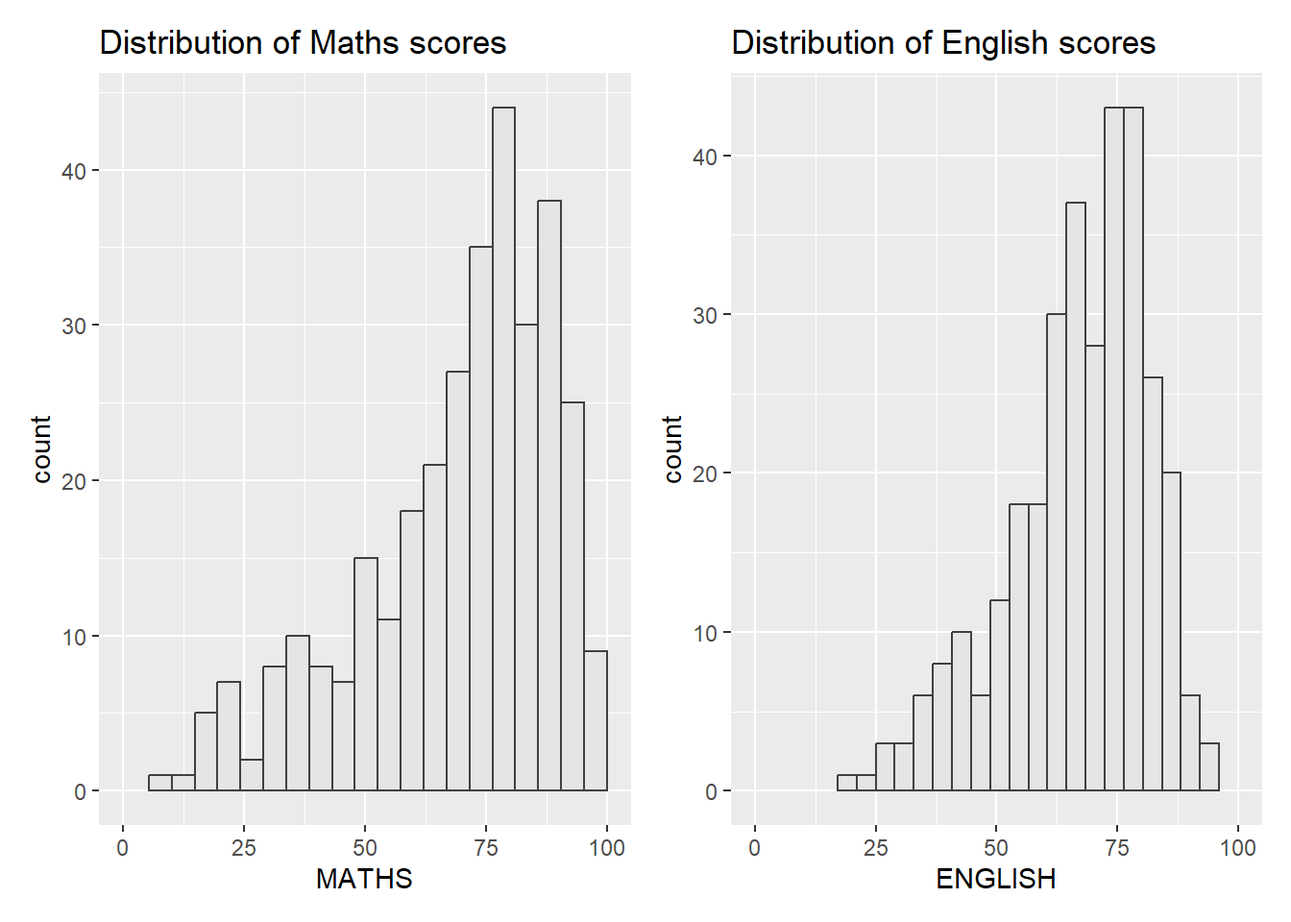
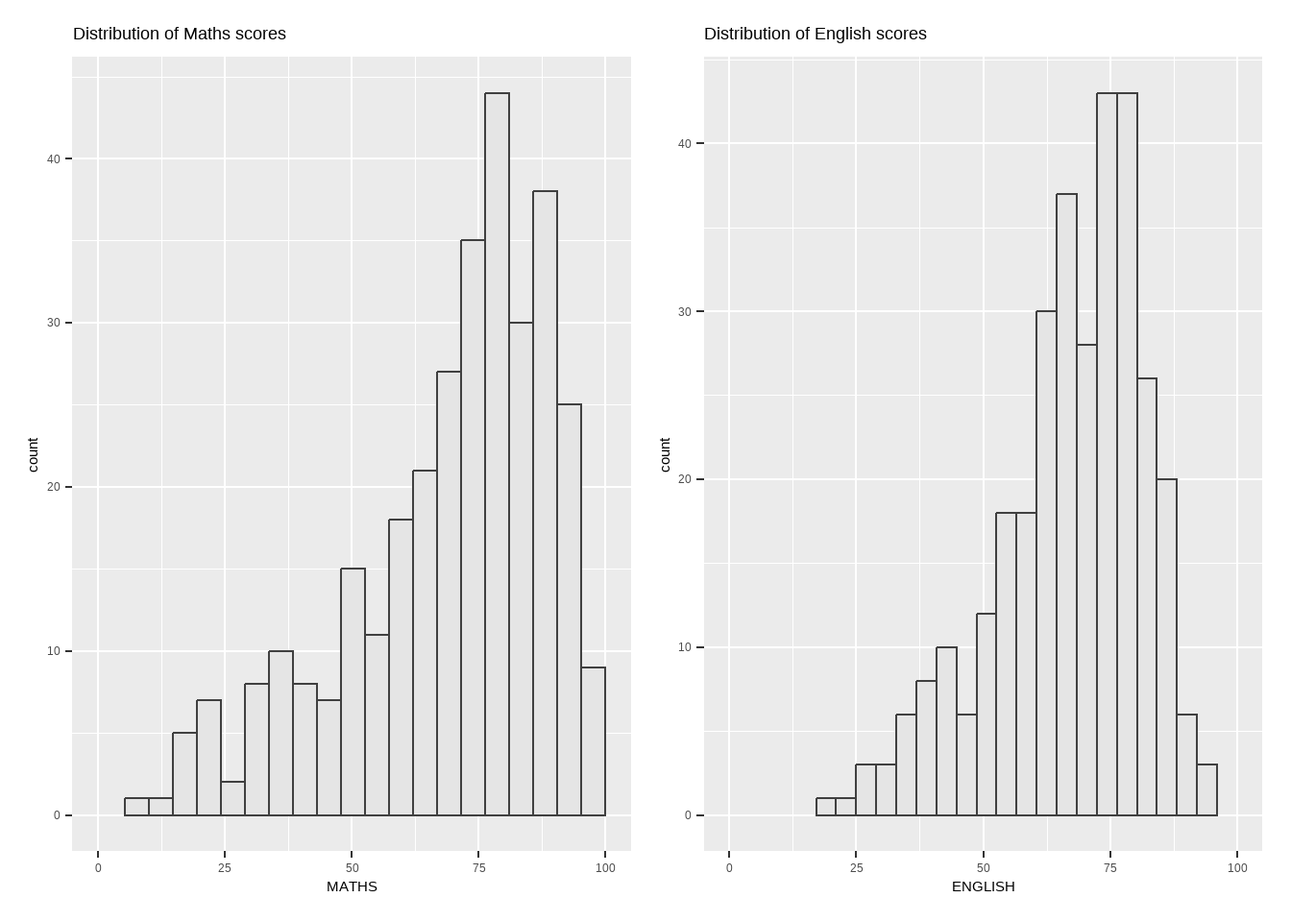
Additional Plots

diff --git a/_site/Hands-on_Ex/Hands-on_Ex02/Hands-on_Ex02.html b/_site/Hands-on_Ex/Hands-on_Ex02/Hands-on_Ex02.html
@@ -187,9 +187,16 @@ pre > code.sourceCode > span > a:first-child::before { text-decoration: underlin
   <li><a href="#economist-theme" id="toc-economist-theme" class="nav-link" data-scroll-target="#economist-theme">Economist Theme</a></li>
   <li><a href="#combining-ggplot2-graphs" id="toc-combining-ggplot2-graphs" class="nav-link" data-scroll-target="#combining-ggplot2-graphs">Combining ggplot2 graphs</a></li>
   <li><a href="#combining-2-plots-side-by-side" id="toc-combining-2-plots-side-by-side" class="nav-link" data-scroll-target="#combining-2-plots-side-by-side">Combining 2 Plots side by side</a></li>
-  <li><a href="#combining-3-graphs---using-to-stack-2-graphs-and-to-place-the-plots-beside-each-other" id="toc-combining-3-graphs---using-to-stack-2-graphs-and-to-place-the-plots-beside-each-other" class="nav-link" data-scroll-target="#combining-3-graphs---using-to-stack-2-graphs-and-to-place-the-plots-beside-each-other">Combining 3 graphs - Using “/” to stack 2 graphs and | to place the plots beside each other</a></li>
+  <li><a href="#combining-3-graphs---using-to-stack-2-graphs-and-to-place-the-plots-beside-each-other" id="toc-combining-3-graphs---using-to-stack-2-graphs-and-to-place-the-plots-beside-each-other" class="nav-link" data-scroll-target="#combining-3-graphs---using-to-stack-2-graphs-and-to-place-the-plots-beside-each-other">Combining 3 graphs - Using “/” to stack 2 graphs and “|” to place the plots beside each other</a></li>
   <li><a href="#placing-plots-next-to-each-other-based-on-the-provided-layout---using-inset_element" id="toc-placing-plots-next-to-each-other-based-on-the-provided-layout---using-inset_element" class="nav-link" data-scroll-target="#placing-plots-next-to-each-other-based-on-the-provided-layout---using-inset_element">Placing plots next to each other based on the provided layout - using inset_element</a></li>
   <li><a href="#using-patchwork-and-theme-together" id="toc-using-patchwork-and-theme-together" class="nav-link" data-scroll-target="#using-patchwork-and-theme-together">Using patchwork and theme together</a></li>
+  </ul></li>
+  <li><a href="#visual-analytics-methods-of-the-week" id="toc-visual-analytics-methods-of-the-week" class="nav-link" data-scroll-target="#visual-analytics-methods-of-the-week">Visual Analytics Methods of the Week</a>
+  <ul class="collapse">
+  <li><a href="#plotting-a-box-plot-of-the-english-scores-of-the-different-classes" id="toc-plotting-a-box-plot-of-the-english-scores-of-the-different-classes" class="nav-link" data-scroll-target="#plotting-a-box-plot-of-the-english-scores-of-the-different-classes">Plotting a Box Plot of the English scores of the different classes</a></li>
+  <li><a href="#plotting-a-violin-plot-of-science-scores-in-the-different-races" id="toc-plotting-a-violin-plot-of-science-scores-in-the-different-races" class="nav-link" data-scroll-target="#plotting-a-violin-plot-of-science-scores-in-the-different-races">Plotting a Violin Plot of science scores in the different Races</a></li>
+  <li><a href="#plotting-a-pie-chart-of-the-proportion-of-the-different-races" id="toc-plotting-a-pie-chart-of-the-proportion-of-the-different-races" class="nav-link" data-scroll-target="#plotting-a-pie-chart-of-the-proportion-of-the-different-races">Plotting a pie chart of the proportion of the different races</a></li>
+  <li><a href="#dot-plot-of-math-scores" id="toc-dot-plot-of-math-scores" class="nav-link" data-scroll-target="#dot-plot-of-math-scores">Dot Plot of Math Scores</a></li>
   </ul></li>
   </ul>
 </nav>
@@ -289,7 +296,7 @@ dbl (3): ENGLISH, MATHS, SCIENCE
 <pre><code>`geom_smooth()` using formula = 'y ~ x'</code></pre>
 </div>
 <div class="cell-output cell-output-stderr">
-<pre><code>Warning: ggrepel: 317 unlabeled data points (too many overlaps). Consider
+<pre><code>Warning: ggrepel: 301 unlabeled data points (too many overlaps). Consider
 increasing max.overlaps</code></pre>
 </div>
 <div class="cell-output-display">
@@ -351,33 +358,7 @@ increasing max.overlaps</code></pre>
 <span id="cb12-5"><a href="#cb12-5" aria-hidden="true" tabindex="-1"></a>                 <span class="at">color=</span><span class="st">"grey25"</span>, </span>
 <span id="cb12-6"><a href="#cb12-6" aria-hidden="true" tabindex="-1"></a>                 <span class="at">fill=</span><span class="st">"grey90"</span>) <span class="sc">+</span></span>
 <span id="cb12-7"><a href="#cb12-7" aria-hidden="true" tabindex="-1"></a>  <span class="fu">ggtitle</span>(<span class="st">"Distribution of Maths scores"</span>) <span class="sc">+</span></span>
-<span id="cb12-8"><a href="#cb12-8" aria-hidden="true" tabindex="-1"></a>  <span class="fu">theme_ipsum</span>()</span></code><button title="Copy to Clipboard" class="code-copy-button"><i class="bi"></i></button></pre></div>
-<div class="cell-output cell-output-stderr">
-<pre><code>Warning in grid.Call(C_stringMetric, as.graphicsAnnot(x$label)): font family
-not found in Windows font database
-Warning in grid.Call(C_stringMetric, as.graphicsAnnot(x$label)): font family
-not found in Windows font database
-Warning in grid.Call(C_stringMetric, as.graphicsAnnot(x$label)): font family
-not found in Windows font database</code></pre>
-</div>
-<div class="cell-output cell-output-stderr">
-<pre><code>Warning in grid.Call(C_textBounds, as.graphicsAnnot(x$label), x$x, x$y, : font
-family not found in Windows font database
-Warning in grid.Call(C_textBounds, as.graphicsAnnot(x$label), x$x, x$y, : font
-family not found in Windows font database
-Warning in grid.Call(C_textBounds, as.graphicsAnnot(x$label), x$x, x$y, : font
-family not found in Windows font database</code></pre>
-</div>
-<div class="cell-output cell-output-stderr">
-<pre><code>Warning in grid.Call.graphics(C_text, as.graphicsAnnot(x$label), x$x, x$y, :
-font family not found in Windows font database
-Warning in grid.Call.graphics(C_text, as.graphicsAnnot(x$label), x$x, x$y, :
-font family not found in Windows font database
-Warning in grid.Call.graphics(C_text, as.graphicsAnnot(x$label), x$x, x$y, :
-font family not found in Windows font database
-Warning in grid.Call.graphics(C_text, as.graphicsAnnot(x$label), x$x, x$y, :
-font family not found in Windows font database</code></pre>
-</div>
+<span id="cb12-8"><a href="#cb12-8" aria-hidden="true" tabindex="-1"></a>  <span class="fu">theme_ipsum</span>(<span class="at">base_family =</span> <span class="st">"sans"</span>)</span></code><button title="Copy to Clipboard" class="code-copy-button"><i class="bi"></i></button></pre></div>
 <div class="cell-output-display">
 <div>
 <figure class="figure">
@@ -390,38 +371,17 @@ font family not found in Windows font database</code></pre>
 <section id="combining-ggplot2-graphs" class="level2">
 <h2 class="anchored" data-anchor-id="combining-ggplot2-graphs">Combining ggplot2 graphs</h2>
 <div class="cell">
-<div class="sourceCode cell-code" id="cb16"><pre class="sourceCode r code-with-copy"><code class="sourceCode r"><span id="cb16-1"><a href="#cb16-1" aria-hidden="true" tabindex="-1"></a><span class="fu">ggplot</span>(<span class="at">data=</span>exam_data, </span>
-<span id="cb16-2"><a href="#cb16-2" aria-hidden="true" tabindex="-1"></a>             <span class="fu">aes</span>(<span class="at">x =</span> MATHS)) <span class="sc">+</span></span>
-<span id="cb16-3"><a href="#cb16-3" aria-hidden="true" tabindex="-1"></a>  <span class="fu">geom_histogram</span>(<span class="at">bins=</span><span class="dv">20</span>, </span>
-<span id="cb16-4"><a href="#cb16-4" aria-hidden="true" tabindex="-1"></a>                 <span class="at">boundary =</span> <span class="dv">100</span>,</span>
-<span id="cb16-5"><a href="#cb16-5" aria-hidden="true" tabindex="-1"></a>                 <span class="at">color=</span><span class="st">"grey25"</span>, </span>
-<span id="cb16-6"><a href="#cb16-6" aria-hidden="true" tabindex="-1"></a>                 <span class="at">fill=</span><span class="st">"grey90"</span>) <span class="sc">+</span></span>
-<span id="cb16-7"><a href="#cb16-7" aria-hidden="true" tabindex="-1"></a>  <span class="fu">ggtitle</span>(<span class="st">"Distribution of Maths scores"</span>) <span class="sc">+</span></span>
-<span id="cb16-8"><a href="#cb16-8" aria-hidden="true" tabindex="-1"></a>  <span class="fu">theme_ipsum</span>(<span class="at">axis_title_size =</span> <span class="dv">18</span>,</span>
-<span id="cb16-9"><a href="#cb16-9" aria-hidden="true" tabindex="-1"></a>              <span class="at">base_size =</span> <span class="dv">15</span>,</span>
-<span id="cb16-10"><a href="#cb16-10" aria-hidden="true" tabindex="-1"></a>              <span class="at">grid =</span> <span class="st">"Y"</span>)</span></code><button title="Copy to Clipboard" class="code-copy-button"><i class="bi"></i></button></pre></div>
-<div class="cell-output cell-output-stderr">
-<pre><code>Warning in grid.Call(C_stringMetric, as.graphicsAnnot(x$label)): font family
-not found in Windows font database</code></pre>
-</div>
-<div class="cell-output cell-output-stderr">
-<pre><code>Warning in grid.Call(C_textBounds, as.graphicsAnnot(x$label), x$x, x$y, : font
-family not found in Windows font database
-Warning in grid.Call(C_textBounds, as.graphicsAnnot(x$label), x$x, x$y, : font
-family not found in Windows font database
-Warning in grid.Call(C_textBounds, as.graphicsAnnot(x$label), x$x, x$y, : font
-family not found in Windows font database</code></pre>
-</div>
-<div class="cell-output cell-output-stderr">
-<pre><code>Warning in grid.Call.graphics(C_text, as.graphicsAnnot(x$label), x$x, x$y, :
-font family not found in Windows font database
-Warning in grid.Call.graphics(C_text, as.graphicsAnnot(x$label), x$x, x$y, :
-font family not found in Windows font database
-Warning in grid.Call.graphics(C_text, as.graphicsAnnot(x$label), x$x, x$y, :
-font family not found in Windows font database
-Warning in grid.Call.graphics(C_text, as.graphicsAnnot(x$label), x$x, x$y, :
-font family not found in Windows font database</code></pre>
-</div>
+<div class="sourceCode cell-code" id="cb13"><pre class="sourceCode r code-with-copy"><code class="sourceCode r"><span id="cb13-1"><a href="#cb13-1" aria-hidden="true" tabindex="-1"></a><span class="fu">ggplot</span>(<span class="at">data=</span>exam_data, </span>
+<span id="cb13-2"><a href="#cb13-2" aria-hidden="true" tabindex="-1"></a>             <span class="fu">aes</span>(<span class="at">x =</span> MATHS)) <span class="sc">+</span></span>
+<span id="cb13-3"><a href="#cb13-3" aria-hidden="true" tabindex="-1"></a>  <span class="fu">geom_histogram</span>(<span class="at">bins=</span><span class="dv">20</span>, </span>
+<span id="cb13-4"><a href="#cb13-4" aria-hidden="true" tabindex="-1"></a>                 <span class="at">boundary =</span> <span class="dv">100</span>,</span>
+<span id="cb13-5"><a href="#cb13-5" aria-hidden="true" tabindex="-1"></a>                 <span class="at">color=</span><span class="st">"grey25"</span>, </span>
+<span id="cb13-6"><a href="#cb13-6" aria-hidden="true" tabindex="-1"></a>                 <span class="at">fill=</span><span class="st">"grey90"</span>) <span class="sc">+</span></span>
+<span id="cb13-7"><a href="#cb13-7" aria-hidden="true" tabindex="-1"></a>  <span class="fu">ggtitle</span>(<span class="st">"Distribution of Maths scores"</span>) <span class="sc">+</span></span>
+<span id="cb13-8"><a href="#cb13-8" aria-hidden="true" tabindex="-1"></a>  <span class="fu">theme_ipsum</span>(<span class="at">axis_title_size =</span> <span class="dv">18</span>,</span>
+<span id="cb13-9"><a href="#cb13-9" aria-hidden="true" tabindex="-1"></a>              <span class="at">base_size =</span> <span class="dv">15</span>,</span>
+<span id="cb13-10"><a href="#cb13-10" aria-hidden="true" tabindex="-1"></a>              <span class="at">grid =</span> <span class="st">"Y"</span>,</span>
+<span id="cb13-11"><a href="#cb13-11" aria-hidden="true" tabindex="-1"></a>              <span class="at">base_family =</span> <span class="st">"sans"</span>)</span></code><button title="Copy to Clipboard" class="code-copy-button"><i class="bi"></i></button></pre></div>
 <div class="cell-output-display">
 <div>
 <figure class="figure">
@@ -431,41 +391,41 @@ font family not found in Windows font database</code></pre>
 </div>
 </div>
 <div class="cell">
-<div class="sourceCode cell-code" id="cb20"><pre class="sourceCode r code-with-copy"><code class="sourceCode r"><span id="cb20-1"><a href="#cb20-1" aria-hidden="true" tabindex="-1"></a>p1 <span class="ot">&lt;-</span> <span class="fu">ggplot</span>(<span class="at">data=</span>exam_data, </span>
-<span id="cb20-2"><a href="#cb20-2" aria-hidden="true" tabindex="-1"></a>             <span class="fu">aes</span>(<span class="at">x =</span> MATHS)) <span class="sc">+</span></span>
-<span id="cb20-3"><a href="#cb20-3" aria-hidden="true" tabindex="-1"></a>  <span class="fu">geom_histogram</span>(<span class="at">bins=</span><span class="dv">20</span>, </span>
-<span id="cb20-4"><a href="#cb20-4" aria-hidden="true" tabindex="-1"></a>                 <span class="at">boundary =</span> <span class="dv">100</span>,</span>
-<span id="cb20-5"><a href="#cb20-5" aria-hidden="true" tabindex="-1"></a>                 <span class="at">color=</span><span class="st">"grey25"</span>, </span>
-<span id="cb20-6"><a href="#cb20-6" aria-hidden="true" tabindex="-1"></a>                 <span class="at">fill=</span><span class="st">"grey90"</span>) <span class="sc">+</span> </span>
-<span id="cb20-7"><a href="#cb20-7" aria-hidden="true" tabindex="-1"></a>  <span class="fu">coord_cartesian</span>(<span class="at">xlim=</span><span class="fu">c</span>(<span class="dv">0</span>,<span class="dv">100</span>)) <span class="sc">+</span></span>
-<span id="cb20-8"><a href="#cb20-8" aria-hidden="true" tabindex="-1"></a>  <span class="fu">ggtitle</span>(<span class="st">"Distribution of Maths scores"</span>)</span></code><button title="Copy to Clipboard" class="code-copy-button"><i class="bi"></i></button></pre></div>
+<div class="sourceCode cell-code" id="cb14"><pre class="sourceCode r code-with-copy"><code class="sourceCode r"><span id="cb14-1"><a href="#cb14-1" aria-hidden="true" tabindex="-1"></a>p1 <span class="ot">&lt;-</span> <span class="fu">ggplot</span>(<span class="at">data=</span>exam_data, </span>
+<span id="cb14-2"><a href="#cb14-2" aria-hidden="true" tabindex="-1"></a>             <span class="fu">aes</span>(<span class="at">x =</span> MATHS)) <span class="sc">+</span></span>
+<span id="cb14-3"><a href="#cb14-3" aria-hidden="true" tabindex="-1"></a>  <span class="fu">geom_histogram</span>(<span class="at">bins=</span><span class="dv">20</span>, </span>
+<span id="cb14-4"><a href="#cb14-4" aria-hidden="true" tabindex="-1"></a>                 <span class="at">boundary =</span> <span class="dv">100</span>,</span>
+<span id="cb14-5"><a href="#cb14-5" aria-hidden="true" tabindex="-1"></a>                 <span class="at">color=</span><span class="st">"grey25"</span>, </span>
+<span id="cb14-6"><a href="#cb14-6" aria-hidden="true" tabindex="-1"></a>                 <span class="at">fill=</span><span class="st">"grey90"</span>) <span class="sc">+</span> </span>
+<span id="cb14-7"><a href="#cb14-7" aria-hidden="true" tabindex="-1"></a>  <span class="fu">coord_cartesian</span>(<span class="at">xlim=</span><span class="fu">c</span>(<span class="dv">0</span>,<span class="dv">100</span>)) <span class="sc">+</span></span>
+<span id="cb14-8"><a href="#cb14-8" aria-hidden="true" tabindex="-1"></a>  <span class="fu">ggtitle</span>(<span class="st">"Distribution of Maths scores"</span>)</span></code><button title="Copy to Clipboard" class="code-copy-button"><i class="bi"></i></button></pre></div>
 </div>
 <div class="cell">
-<div class="sourceCode cell-code" id="cb21"><pre class="sourceCode r code-with-copy"><code class="sourceCode r"><span id="cb21-1"><a href="#cb21-1" aria-hidden="true" tabindex="-1"></a>p2 <span class="ot">&lt;-</span> <span class="fu">ggplot</span>(<span class="at">data=</span>exam_data, </span>
-<span id="cb21-2"><a href="#cb21-2" aria-hidden="true" tabindex="-1"></a>             <span class="fu">aes</span>(<span class="at">x =</span> ENGLISH)) <span class="sc">+</span></span>
-<span id="cb21-3"><a href="#cb21-3" aria-hidden="true" tabindex="-1"></a>  <span class="fu">geom_histogram</span>(<span class="at">bins=</span><span class="dv">20</span>, </span>
-<span id="cb21-4"><a href="#cb21-4" aria-hidden="true" tabindex="-1"></a>                 <span class="at">boundary =</span> <span class="dv">100</span>,</span>
-<span id="cb21-5"><a href="#cb21-5" aria-hidden="true" tabindex="-1"></a>                 <span class="at">color=</span><span class="st">"grey25"</span>, </span>
-<span id="cb21-6"><a href="#cb21-6" aria-hidden="true" tabindex="-1"></a>                 <span class="at">fill=</span><span class="st">"grey90"</span>) <span class="sc">+</span></span>
-<span id="cb21-7"><a href="#cb21-7" aria-hidden="true" tabindex="-1"></a>  <span class="fu">coord_cartesian</span>(<span class="at">xlim=</span><span class="fu">c</span>(<span class="dv">0</span>,<span class="dv">100</span>)) <span class="sc">+</span></span>
-<span id="cb21-8"><a href="#cb21-8" aria-hidden="true" tabindex="-1"></a>  <span class="fu">ggtitle</span>(<span class="st">"Distribution of English scores"</span>)</span></code><button title="Copy to Clipboard" class="code-copy-button"><i class="bi"></i></button></pre></div>
+<div class="sourceCode cell-code" id="cb15"><pre class="sourceCode r code-with-copy"><code class="sourceCode r"><span id="cb15-1"><a href="#cb15-1" aria-hidden="true" tabindex="-1"></a>p2 <span class="ot">&lt;-</span> <span class="fu">ggplot</span>(<span class="at">data=</span>exam_data, </span>
+<span id="cb15-2"><a href="#cb15-2" aria-hidden="true" tabindex="-1"></a>             <span class="fu">aes</span>(<span class="at">x =</span> ENGLISH)) <span class="sc">+</span></span>
+<span id="cb15-3"><a href="#cb15-3" aria-hidden="true" tabindex="-1"></a>  <span class="fu">geom_histogram</span>(<span class="at">bins=</span><span class="dv">20</span>, </span>
+<span id="cb15-4"><a href="#cb15-4" aria-hidden="true" tabindex="-1"></a>                 <span class="at">boundary =</span> <span class="dv">100</span>,</span>
+<span id="cb15-5"><a href="#cb15-5" aria-hidden="true" tabindex="-1"></a>                 <span class="at">color=</span><span class="st">"grey25"</span>, </span>
+<span id="cb15-6"><a href="#cb15-6" aria-hidden="true" tabindex="-1"></a>                 <span class="at">fill=</span><span class="st">"grey90"</span>) <span class="sc">+</span></span>
+<span id="cb15-7"><a href="#cb15-7" aria-hidden="true" tabindex="-1"></a>  <span class="fu">coord_cartesian</span>(<span class="at">xlim=</span><span class="fu">c</span>(<span class="dv">0</span>,<span class="dv">100</span>)) <span class="sc">+</span></span>
+<span id="cb15-8"><a href="#cb15-8" aria-hidden="true" tabindex="-1"></a>  <span class="fu">ggtitle</span>(<span class="st">"Distribution of English scores"</span>)</span></code><button title="Copy to Clipboard" class="code-copy-button"><i class="bi"></i></button></pre></div>
 </div>
 <div class="cell">
-<div class="sourceCode cell-code" id="cb22"><pre class="sourceCode r code-with-copy"><code class="sourceCode r"><span id="cb22-1"><a href="#cb22-1" aria-hidden="true" tabindex="-1"></a>p3 <span class="ot">&lt;-</span> <span class="fu">ggplot</span>(<span class="at">data=</span>exam_data, </span>
-<span id="cb22-2"><a href="#cb22-2" aria-hidden="true" tabindex="-1"></a>             <span class="fu">aes</span>(<span class="at">x=</span> MATHS, </span>
-<span id="cb22-3"><a href="#cb22-3" aria-hidden="true" tabindex="-1"></a>                 <span class="at">y=</span>ENGLISH)) <span class="sc">+</span></span>
-<span id="cb22-4"><a href="#cb22-4" aria-hidden="true" tabindex="-1"></a>  <span class="fu">geom_point</span>() <span class="sc">+</span></span>
-<span id="cb22-5"><a href="#cb22-5" aria-hidden="true" tabindex="-1"></a>  <span class="fu">geom_smooth</span>(<span class="at">method=</span>lm, </span>
-<span id="cb22-6"><a href="#cb22-6" aria-hidden="true" tabindex="-1"></a>              <span class="at">size=</span><span class="fl">0.5</span>) <span class="sc">+</span>  </span>
-<span id="cb22-7"><a href="#cb22-7" aria-hidden="true" tabindex="-1"></a>  <span class="fu">coord_cartesian</span>(<span class="at">xlim=</span><span class="fu">c</span>(<span class="dv">0</span>,<span class="dv">100</span>),</span>
-<span id="cb22-8"><a href="#cb22-8" aria-hidden="true" tabindex="-1"></a>                  <span class="at">ylim=</span><span class="fu">c</span>(<span class="dv">0</span>,<span class="dv">100</span>)) <span class="sc">+</span></span>
-<span id="cb22-9"><a href="#cb22-9" aria-hidden="true" tabindex="-1"></a>  <span class="fu">ggtitle</span>(<span class="st">"English scores versus Maths scores for Primary 3"</span>)</span></code><button title="Copy to Clipboard" class="code-copy-button"><i class="bi"></i></button></pre></div>
+<div class="sourceCode cell-code" id="cb16"><pre class="sourceCode r code-with-copy"><code class="sourceCode r"><span id="cb16-1"><a href="#cb16-1" aria-hidden="true" tabindex="-1"></a>p3 <span class="ot">&lt;-</span> <span class="fu">ggplot</span>(<span class="at">data=</span>exam_data, </span>
+<span id="cb16-2"><a href="#cb16-2" aria-hidden="true" tabindex="-1"></a>             <span class="fu">aes</span>(<span class="at">x=</span> MATHS, </span>
+<span id="cb16-3"><a href="#cb16-3" aria-hidden="true" tabindex="-1"></a>                 <span class="at">y=</span>ENGLISH)) <span class="sc">+</span></span>
+<span id="cb16-4"><a href="#cb16-4" aria-hidden="true" tabindex="-1"></a>  <span class="fu">geom_point</span>() <span class="sc">+</span></span>
+<span id="cb16-5"><a href="#cb16-5" aria-hidden="true" tabindex="-1"></a>  <span class="fu">geom_smooth</span>(<span class="at">method=</span>lm, </span>
+<span id="cb16-6"><a href="#cb16-6" aria-hidden="true" tabindex="-1"></a>              <span class="at">size=</span><span class="fl">0.5</span>) <span class="sc">+</span>  </span>
+<span id="cb16-7"><a href="#cb16-7" aria-hidden="true" tabindex="-1"></a>  <span class="fu">coord_cartesian</span>(<span class="at">xlim=</span><span class="fu">c</span>(<span class="dv">0</span>,<span class="dv">100</span>),</span>
+<span id="cb16-8"><a href="#cb16-8" aria-hidden="true" tabindex="-1"></a>                  <span class="at">ylim=</span><span class="fu">c</span>(<span class="dv">0</span>,<span class="dv">100</span>)) <span class="sc">+</span></span>
+<span id="cb16-9"><a href="#cb16-9" aria-hidden="true" tabindex="-1"></a>  <span class="fu">ggtitle</span>(<span class="st">"English scores versus Maths scores for Primary 3"</span>)</span></code><button title="Copy to Clipboard" class="code-copy-button"><i class="bi"></i></button></pre></div>
 </div>
 </section>
 <section id="combining-2-plots-side-by-side" class="level2">
 <h2 class="anchored" data-anchor-id="combining-2-plots-side-by-side">Combining 2 Plots side by side</h2>
 <div class="cell">
-<div class="sourceCode cell-code" id="cb23"><pre class="sourceCode r code-with-copy"><code class="sourceCode r"><span id="cb23-1"><a href="#cb23-1" aria-hidden="true" tabindex="-1"></a>p1 <span class="sc">+</span> p2</span></code><button title="Copy to Clipboard" class="code-copy-button"><i class="bi"></i></button></pre></div>
+<div class="sourceCode cell-code" id="cb17"><pre class="sourceCode r code-with-copy"><code class="sourceCode r"><span id="cb17-1"><a href="#cb17-1" aria-hidden="true" tabindex="-1"></a>p1 <span class="sc">+</span> p2</span></code><button title="Copy to Clipboard" class="code-copy-button"><i class="bi"></i></button></pre></div>
 <div class="cell-output-display">
 <div>
 <figure class="figure">
@@ -476,9 +436,9 @@ font family not found in Windows font database</code></pre>
 </div>
 </section>
 <section id="combining-3-graphs---using-to-stack-2-graphs-and-to-place-the-plots-beside-each-other" class="level2">
-<h2 class="anchored" data-anchor-id="combining-3-graphs---using-to-stack-2-graphs-and-to-place-the-plots-beside-each-other">Combining 3 graphs - Using “/” to stack 2 graphs and | to place the plots beside each other</h2>
+<h2 class="anchored" data-anchor-id="combining-3-graphs---using-to-stack-2-graphs-and-to-place-the-plots-beside-each-other">Combining 3 graphs - Using “/” to stack 2 graphs and “|” to place the plots beside each other</h2>
 <div class="cell">
-<div class="sourceCode cell-code" id="cb24"><pre class="sourceCode r code-with-copy"><code class="sourceCode r"><span id="cb24-1"><a href="#cb24-1" aria-hidden="true" tabindex="-1"></a>(p1 <span class="sc">/</span> p2) <span class="sc">|</span> p3</span></code><button title="Copy to Clipboard" class="code-copy-button"><i class="bi"></i></button></pre></div>
+<div class="sourceCode cell-code" id="cb18"><pre class="sourceCode r code-with-copy"><code class="sourceCode r"><span id="cb18-1"><a href="#cb18-1" aria-hidden="true" tabindex="-1"></a>(p1 <span class="sc">/</span> p2) <span class="sc">|</span> p3</span></code><button title="Copy to Clipboard" class="code-copy-button"><i class="bi"></i></button></pre></div>
 <div class="cell-output cell-output-stderr">
 <pre><code>`geom_smooth()` using formula = 'y ~ x'</code></pre>
 </div>
@@ -501,11 +461,11 @@ font family not found in Windows font database</code></pre>
 <li><p>top = 1 top edge ends at 100% of height</p></li>
 </ul>
 <div class="cell">
-<div class="sourceCode cell-code" id="cb26"><pre class="sourceCode r code-with-copy"><code class="sourceCode r"><span id="cb26-1"><a href="#cb26-1" aria-hidden="true" tabindex="-1"></a>p3 <span class="sc">+</span> <span class="fu">inset_element</span>(p2, </span>
-<span id="cb26-2"><a href="#cb26-2" aria-hidden="true" tabindex="-1"></a>                   <span class="at">left =</span> <span class="fl">0.02</span>, </span>
-<span id="cb26-3"><a href="#cb26-3" aria-hidden="true" tabindex="-1"></a>                   <span class="at">bottom =</span> <span class="fl">0.7</span>, </span>
-<span id="cb26-4"><a href="#cb26-4" aria-hidden="true" tabindex="-1"></a>                   <span class="at">right =</span> <span class="fl">0.5</span>, </span>
-<span id="cb26-5"><a href="#cb26-5" aria-hidden="true" tabindex="-1"></a>                   <span class="at">top =</span> <span class="dv">1</span>)</span></code><button title="Copy to Clipboard" class="code-copy-button"><i class="bi"></i></button></pre></div>
+<div class="sourceCode cell-code" id="cb20"><pre class="sourceCode r code-with-copy"><code class="sourceCode r"><span id="cb20-1"><a href="#cb20-1" aria-hidden="true" tabindex="-1"></a>p3 <span class="sc">+</span> <span class="fu">inset_element</span>(p2, </span>
+<span id="cb20-2"><a href="#cb20-2" aria-hidden="true" tabindex="-1"></a>                   <span class="at">left =</span> <span class="fl">0.02</span>, </span>
+<span id="cb20-3"><a href="#cb20-3" aria-hidden="true" tabindex="-1"></a>                   <span class="at">bottom =</span> <span class="fl">0.7</span>, </span>
+<span id="cb20-4"><a href="#cb20-4" aria-hidden="true" tabindex="-1"></a>                   <span class="at">right =</span> <span class="fl">0.5</span>, </span>
+<span id="cb20-5"><a href="#cb20-5" aria-hidden="true" tabindex="-1"></a>                   <span class="at">top =</span> <span class="dv">1</span>)</span></code><button title="Copy to Clipboard" class="code-copy-button"><i class="bi"></i></button></pre></div>
 <div class="cell-output cell-output-stderr">
 <pre><code>`geom_smooth()` using formula = 'y ~ x'</code></pre>
 </div>
@@ -521,8 +481,8 @@ font family not found in Windows font database</code></pre>
 <section id="using-patchwork-and-theme-together" class="level2">
 <h2 class="anchored" data-anchor-id="using-patchwork-and-theme-together">Using patchwork and theme together</h2>
 <div class="cell">
-<div class="sourceCode cell-code" id="cb28"><pre class="sourceCode r code-with-copy"><code class="sourceCode r"><span id="cb28-1"><a href="#cb28-1" aria-hidden="true" tabindex="-1"></a>patchwork <span class="ot">&lt;-</span> (p1 <span class="sc">/</span> p2) <span class="sc">|</span> p3</span>
-<span id="cb28-2"><a href="#cb28-2" aria-hidden="true" tabindex="-1"></a>patchwork <span class="sc">&amp;</span> <span class="fu">theme_economist</span>()</span></code><button title="Copy to Clipboard" class="code-copy-button"><i class="bi"></i></button></pre></div>
+<div class="sourceCode cell-code" id="cb22"><pre class="sourceCode r code-with-copy"><code class="sourceCode r"><span id="cb22-1"><a href="#cb22-1" aria-hidden="true" tabindex="-1"></a>patchwork <span class="ot">&lt;-</span> (p1 <span class="sc">/</span> p2) <span class="sc">|</span> p3</span>
+<span id="cb22-2"><a href="#cb22-2" aria-hidden="true" tabindex="-1"></a>patchwork <span class="sc">&amp;</span> <span class="fu">theme_economist</span>()</span></code><button title="Copy to Clipboard" class="code-copy-button"><i class="bi"></i></button></pre></div>
 <div class="cell-output cell-output-stderr">
 <pre><code>`geom_smooth()` using formula = 'y ~ x'</code></pre>
 </div>
@@ -530,6 +490,95 @@ font family not found in Windows font database</code></pre>
 <div>
 <figure class="figure">
 <p><img src="Hands-on_Ex02_files/figure-html/unnamed-chunk-15-1.png" class="img-fluid figure-img" width="672"></p>
+</figure>
+</div>
+</div>
+</div>
+</section>
+</section>
+<section id="visual-analytics-methods-of-the-week" class="level1">
+<h1>Visual Analytics Methods of the Week</h1>
+<section id="plotting-a-box-plot-of-the-english-scores-of-the-different-classes" class="level2">
+<h2 class="anchored" data-anchor-id="plotting-a-box-plot-of-the-english-scores-of-the-different-classes">Plotting a Box Plot of the English scores of the different classes</h2>
+<ul>
+<li><p>From the box plot below, there is a downward trend of English scores from 3A to 3I, showing that students from Class 3A generally scored better than students in the other classes</p></li>
+<li><p>There are also some classes with outliers, for example class 3E and 3F where there are one or more students who scored significantly lower than the rest of the class</p></li>
+</ul>
+<div class="cell">
+<div class="sourceCode cell-code" id="cb24"><pre class="sourceCode r code-with-copy"><code class="sourceCode r"><span id="cb24-1"><a href="#cb24-1" aria-hidden="true" tabindex="-1"></a><span class="fu">ggplot</span>(<span class="at">data=</span>exam_data, <span class="fu">aes</span>(<span class="at">y =</span> ENGLISH, <span class="at">x=</span> CLASS)) <span class="sc">+</span> <span class="fu">geom_boxplot</span>()</span></code><button title="Copy to Clipboard" class="code-copy-button"><i class="bi"></i></button></pre></div>
+<div class="cell-output-display">
+<div>
+<figure class="figure">
+<p><img src="Hands-on_Ex02_files/figure-html/unnamed-chunk-16-1.png" class="img-fluid figure-img" width="672"></p>
+</figure>
+</div>
+</div>
+</div>
+</section>
+<section id="plotting-a-violin-plot-of-science-scores-in-the-different-races" class="level2">
+<h2 class="anchored" data-anchor-id="plotting-a-violin-plot-of-science-scores-in-the-different-races">Plotting a Violin Plot of science scores in the different Races</h2>
+<ul>
+<li><p>From the violin plot, it can be seen that there is a majority of “Chinese” students who scored in the 75 range and “Other” students scoring in the 68 range for science subject</p></li>
+<li><p>For Indian students, their science scores are quite evenly spread out from 12.5 to 87.5</p></li>
+</ul>
+<div class="cell">
+<div class="sourceCode cell-code" id="cb25"><pre class="sourceCode r code-with-copy"><code class="sourceCode r"><span id="cb25-1"><a href="#cb25-1" aria-hidden="true" tabindex="-1"></a><span class="fu">ggplot</span>(<span class="at">data=</span>exam_data, </span>
+<span id="cb25-2"><a href="#cb25-2" aria-hidden="true" tabindex="-1"></a>       <span class="fu">aes</span>(<span class="at">y =</span> SCIENCE, </span>
+<span id="cb25-3"><a href="#cb25-3" aria-hidden="true" tabindex="-1"></a>           <span class="at">x=</span> RACE)) <span class="sc">+</span></span>
+<span id="cb25-4"><a href="#cb25-4" aria-hidden="true" tabindex="-1"></a>  <span class="fu">geom_violin</span>()</span></code><button title="Copy to Clipboard" class="code-copy-button"><i class="bi"></i></button></pre></div>
+<div class="cell-output-display">
+<div>
+<figure class="figure">
+<p><img src="Hands-on_Ex02_files/figure-html/unnamed-chunk-17-1.png" class="img-fluid figure-img" width="672"></p>
+</figure>
+</div>
+</div>
+</div>
+</section>
+<section id="plotting-a-pie-chart-of-the-proportion-of-the-different-races" class="level2">
+<h2 class="anchored" data-anchor-id="plotting-a-pie-chart-of-the-proportion-of-the-different-races">Plotting a pie chart of the proportion of the different races</h2>
+<ul>
+<li><p>It can be seen from the pie chart that more than half of the student population are Chinese and the next majority is Malay</p></li>
+<li><p>The Indian and Other students seem to have the same proportion</p></li>
+</ul>
+<div class="cell">
+<div class="sourceCode cell-code" id="cb26"><pre class="sourceCode r code-with-copy"><code class="sourceCode r"><span id="cb26-1"><a href="#cb26-1" aria-hidden="true" tabindex="-1"></a><span class="fu">library</span>(dplyr)</span>
+<span id="cb26-2"><a href="#cb26-2" aria-hidden="true" tabindex="-1"></a>race_counts <span class="ot">&lt;-</span> exam_data <span class="sc">%&gt;%</span></span>
+<span id="cb26-3"><a href="#cb26-3" aria-hidden="true" tabindex="-1"></a>  <span class="fu">count</span>(RACE)</span>
+<span id="cb26-4"><a href="#cb26-4" aria-hidden="true" tabindex="-1"></a></span>
+<span id="cb26-5"><a href="#cb26-5" aria-hidden="true" tabindex="-1"></a><span class="fu">ggplot</span>(race_counts, <span class="fu">aes</span>(<span class="at">x =</span> <span class="st">""</span>, <span class="at">y =</span> n, <span class="at">fill =</span> RACE)) <span class="sc">+</span></span>
+<span id="cb26-6"><a href="#cb26-6" aria-hidden="true" tabindex="-1"></a>  <span class="fu">geom_bar</span>(<span class="at">stat =</span> <span class="st">"identity"</span>, <span class="at">width =</span> <span class="dv">1</span>) <span class="sc">+</span></span>
+<span id="cb26-7"><a href="#cb26-7" aria-hidden="true" tabindex="-1"></a>  <span class="fu">coord_polar</span>(<span class="at">theta =</span> <span class="st">"y"</span>) <span class="sc">+</span></span>
+<span id="cb26-8"><a href="#cb26-8" aria-hidden="true" tabindex="-1"></a>  <span class="fu">labs</span>(<span class="at">title =</span> <span class="st">"Student Distribution by Race"</span>,</span>
+<span id="cb26-9"><a href="#cb26-9" aria-hidden="true" tabindex="-1"></a>       <span class="at">y =</span> <span class="cn">NULL</span>,</span>
+<span id="cb26-10"><a href="#cb26-10" aria-hidden="true" tabindex="-1"></a>       <span class="at">x =</span> <span class="cn">NULL</span>,</span>
+<span id="cb26-11"><a href="#cb26-11" aria-hidden="true" tabindex="-1"></a>       <span class="at">fill =</span> <span class="st">"Race"</span>) <span class="sc">+</span></span>
+<span id="cb26-12"><a href="#cb26-12" aria-hidden="true" tabindex="-1"></a>  <span class="fu">theme_void</span>() <span class="sc">+</span></span>
+<span id="cb26-13"><a href="#cb26-13" aria-hidden="true" tabindex="-1"></a>  <span class="fu">theme</span>(<span class="at">plot.title =</span> <span class="fu">element_text</span>(<span class="at">hjust =</span> <span class="fl">0.5</span>, <span class="at">size =</span> <span class="dv">16</span>))</span></code><button title="Copy to Clipboard" class="code-copy-button"><i class="bi"></i></button></pre></div>
+<div class="cell-output-display">
+<div>
+<figure class="figure">
+<p><img src="Hands-on_Ex02_files/figure-html/unnamed-chunk-18-1.png" class="img-fluid figure-img" width="672"></p>
+</figure>
+</div>
+</div>
+</div>
+</section>
+<section id="dot-plot-of-math-scores" class="level2">
+<h2 class="anchored" data-anchor-id="dot-plot-of-math-scores">Dot Plot of Math Scores</h2>
+<div class="cell">
+<div class="sourceCode cell-code" id="cb27"><pre class="sourceCode r code-with-copy"><code class="sourceCode r"><span id="cb27-1"><a href="#cb27-1" aria-hidden="true" tabindex="-1"></a><span class="fu">ggplot</span>(exam_data, <span class="fu">aes</span>(<span class="at">x =</span> MATHS)) <span class="sc">+</span></span>
+<span id="cb27-2"><a href="#cb27-2" aria-hidden="true" tabindex="-1"></a>  <span class="fu">geom_dotplot</span>(<span class="at">binwidth =</span> <span class="dv">1</span>, </span>
+<span id="cb27-3"><a href="#cb27-3" aria-hidden="true" tabindex="-1"></a>               <span class="at">fill =</span> <span class="st">"skyblue"</span>, </span>
+<span id="cb27-4"><a href="#cb27-4" aria-hidden="true" tabindex="-1"></a>               <span class="at">color =</span> <span class="st">"black"</span>) <span class="sc">+</span></span>
+<span id="cb27-5"><a href="#cb27-5" aria-hidden="true" tabindex="-1"></a>  <span class="fu">labs</span>(<span class="at">title =</span> <span class="st">"Dot Plot of Maths Scores"</span>,</span>
+<span id="cb27-6"><a href="#cb27-6" aria-hidden="true" tabindex="-1"></a>       <span class="at">x =</span> <span class="st">"Maths Score"</span>,</span>
+<span id="cb27-7"><a href="#cb27-7" aria-hidden="true" tabindex="-1"></a>       <span class="at">y =</span> <span class="st">"Count"</span>) <span class="sc">+</span></span>
+<span id="cb27-8"><a href="#cb27-8" aria-hidden="true" tabindex="-1"></a>  <span class="fu">theme_minimal</span>()</span></code><button title="Copy to Clipboard" class="code-copy-button"><i class="bi"></i></button></pre></div>
+<div class="cell-output-display">
+<div>
+<figure class="figure">
+<p><img src="Hands-on_Ex02_files/figure-html/unnamed-chunk-19-1.png" class="img-fluid figure-img" width="672"></p>
 </figure>
 </div>
 </div>
